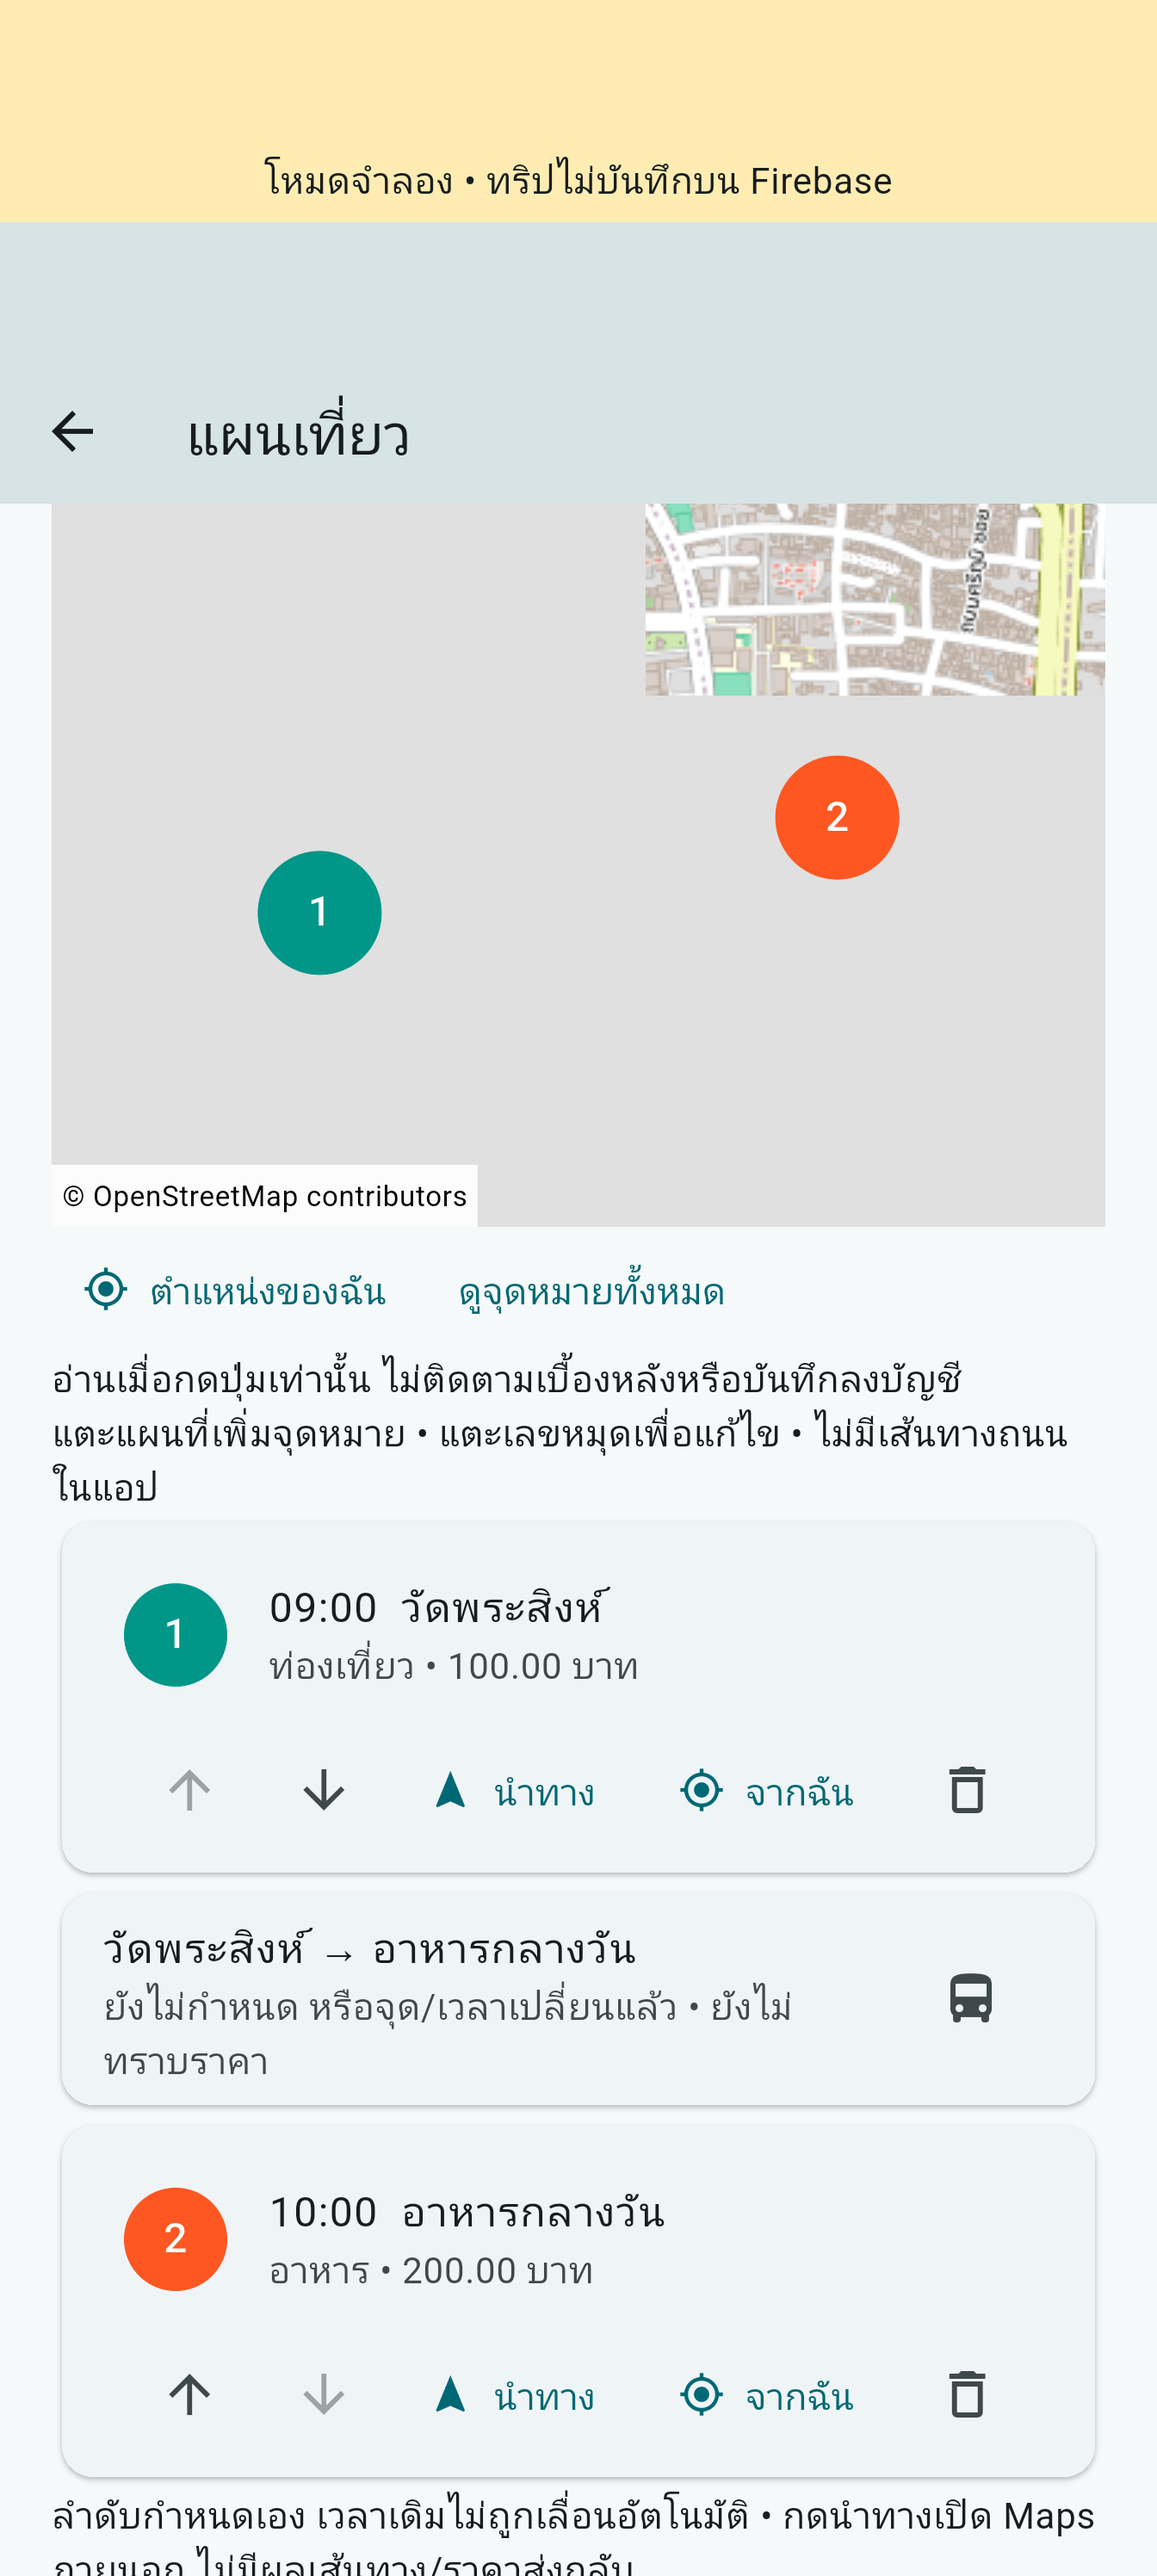
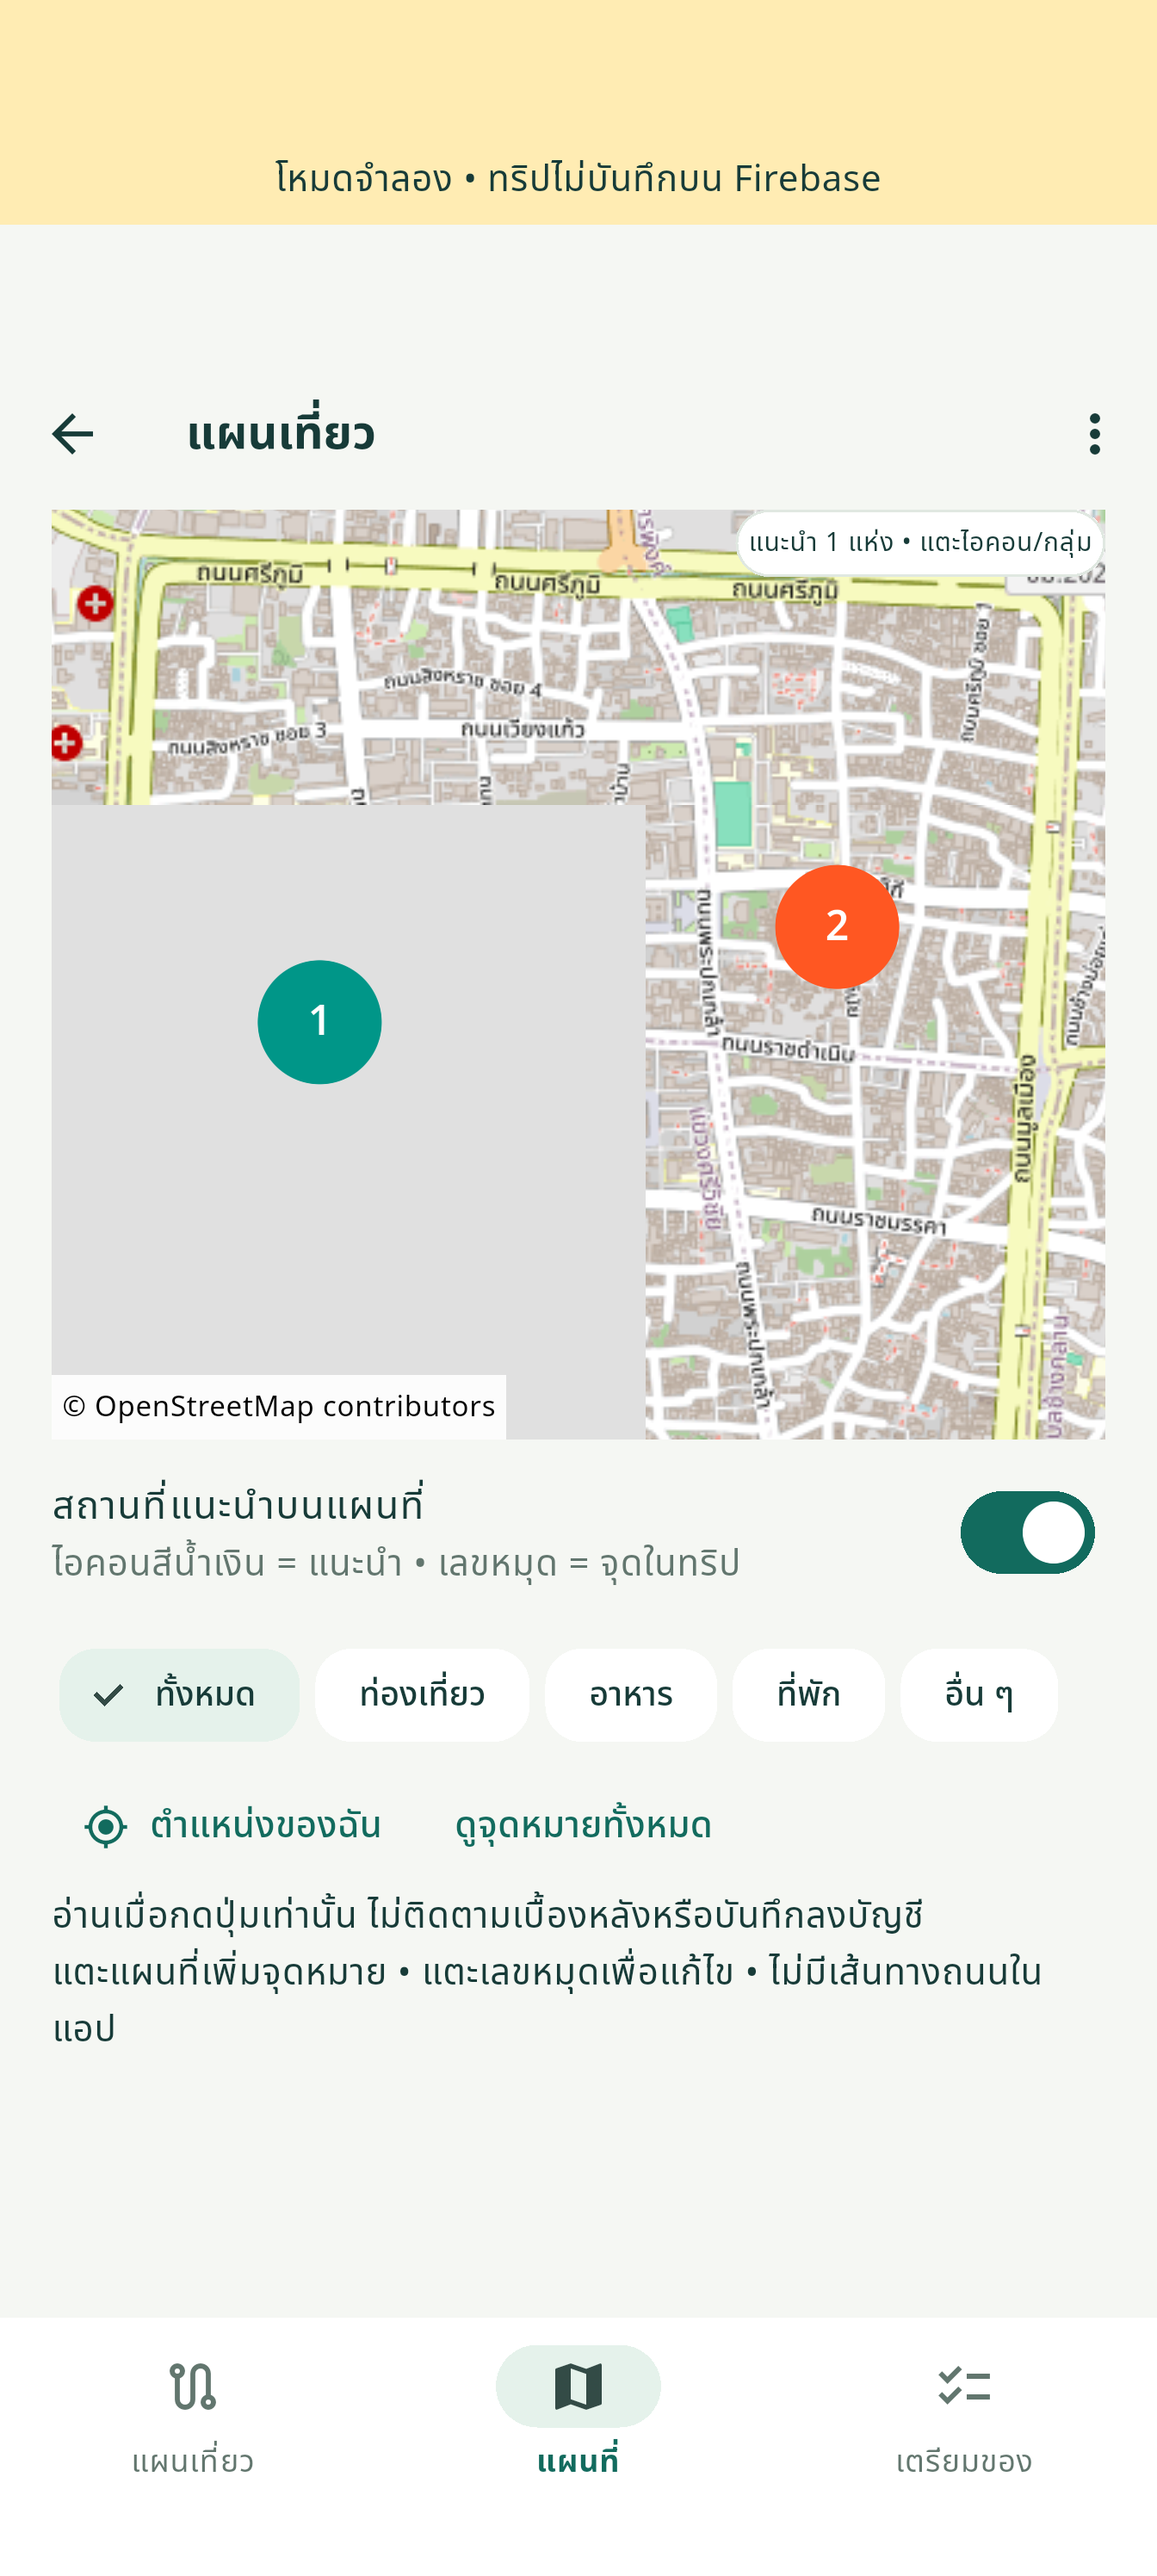
test(ui): verify refreshed layouts and Android trip workflows

diff --git a/test/ux_responsive_test.dart b/test/ux_responsive_test.dart
@@ -1,0 +1,100 @@
+import 'package:flutter/material.dart';
+import 'package:flutter_test/flutter_test.dart';
+import 'package:flutter_riverpod/flutter_riverpod.dart';
+import 'package:trip_pocket/app/app.dart';
+import 'package:trip_pocket/app/providers.dart';
+import 'package:trip_pocket/core/design_system.dart';
+import 'package:trip_pocket/features/places/curated_places.dart';
+import 'package:trip_pocket/features/places/place_catalog.dart';
+import 'package:trip_pocket/features/places/recommendations_sheet.dart';
+
+void main() {
+  testWidgets(
+    'small screen and enlarged Thai text keeps login validation and password toggle reachable',
+    (tester) async {
+      tester.view.physicalSize = const Size(320, 568);
+      tester.view.devicePixelRatio = 1;
+      tester.platformDispatcher.textScaleFactorTestValue = 1.5;
+      addTearDown(tester.view.resetPhysicalSize);
+      addTearDown(tester.view.resetDevicePixelRatio);
+      addTearDown(tester.platformDispatcher.clearTextScaleFactorTestValue);
+      await tester.pumpWidget(
+        ProviderScope(
+          overrides: [modeProvider.overrideWithValue('demo')],
+          child: const SessionApp(uid: null),
+        ),
+      );
+      await tester.pumpAndSettle();
+      await tester.scrollUntilVisible(find.byKey(const Key('password')), 140);
+      await tester.pumpAndSettle();
+      await tester.ensureVisible(find.byTooltip('แสดงรหัสผ่าน'));
+      await tester.pumpAndSettle();
+      await tester.tap(find.byTooltip('แสดงรหัสผ่าน'));
+      await tester.pumpAndSettle();
+      expect(
+        tester
+            .widget<TextField>(
+              find.descendant(
+                of: find.byKey(const Key('password')),
+                matching: find.byType(TextField),
+              ),
+            )
+            .obscureText,
+        isFalse,
+      );
+      await tester.ensureVisible(find.byKey(const Key('auth-submit')));
+      await tester.tap(find.byKey(const Key('auth-submit')));
+      await tester.pumpAndSettle();
+      expect(find.text('กรอกอีเมลให้ถูกต้อง'), findsOneWidget);
+      expect(tester.takeException(), isNull);
+    },
+  );
+
+  testWidgets(
+    'search results remain selectable with keyboard on a small screen',
+    (tester) async {
+      tester.view.physicalSize = const Size(320, 568);
+      tester.view.devicePixelRatio = 1;
+      addTearDown(tester.view.resetPhysicalSize);
+      addTearDown(tester.view.resetDevicePixelRatio);
+      await tester.pumpWidget(
+        ProviderScope(
+          overrides: [
+            placeCatalogProvider.overrideWith(
+              (ref) async => PlaceCatalog(chiangMaiPlaces),
+            ),
+          ],
+          child: MaterialApp(
+            theme: buildTripTheme(),
+            home: Builder(
+              builder: (context) => Scaffold(
+                body: TextButton(
+                  onPressed: () => showModalBottomSheet<void>(
+                    context: context,
+                    isScrollControlled: true,
+                    useSafeArea: true,
+                    builder: (_) =>
+                        const RecommendationsSheet(remaining: 10000),
+                  ),
+                  child: const Text('ค้นหา'),
+                ),
+              ),
+            ),
+          ),
+        ),
+      );
+      await tester.tap(find.text('ค้นหา'));
+      await tester.pumpAndSettle();
+      tester.view.viewInsets = const FakeViewPadding(bottom: 230);
+      addTearDown(tester.view.resetViewInsets);
+      await tester.enterText(find.byKey(const Key('place-search')), 'Jasmine');
+      await tester.pumpAndSettle();
+      final target = find.byKey(const Key('recommend-jasmine'));
+      await tester.ensureVisible(target);
+      await tester.pumpAndSettle();
+      expect(target.hitTestable(), findsOneWidget);
+      expect(find.byKey(const Key('place-map-view')), findsNothing);
+      expect(tester.takeException(), isNull);
+    },
+  );
+}

diff --git a/integration_test/nationwide_ui_test.dart b/integration_test/nationwide_ui_test.dart
@@ -51,6 +51,7 @@ void main() {
       );
       await tester.pumpAndSettle();
       await binding.convertFlutterSurfaceToImage();
+      await tester.pump();
       await binding.takeScreenshot('ux-login');
       runApp(
         UncontrolledProviderScope(
@@ -65,7 +66,7 @@ void main() {
       await binding.takeScreenshot('ux-plan');
       await tester.tap(find.byKey(const Key('tab-map')));
       await tester.pumpAndSettle();
-      await binding.convertFlutterSurfaceToImage();
+
       final semantics = tester.ensureSemantics();
 
       final wat = catalogue
@@ -85,6 +86,14 @@ void main() {
       await tester.pump(const Duration(milliseconds: 500));
       await tester.pumpAndSettle();
       expect(find.byType(PoiMapLayer), findsOneWidget);
+      // The layer debounces viewport updates independently of Flutter animations.
+      for (
+        var n = 0;
+        n < 15 && find.bySemanticsLabel('แนะนำ ${wat.name}').evaluate().isEmpty;
+        n++
+      ) {
+        await tester.pump(const Duration(milliseconds: 200));
+      }
       expect(find.bySemanticsLabel('แนะนำ ${wat.name}'), findsOneWidget);
       await tester.pump(const Duration(seconds: 1));
       await binding.takeScreenshot('ux-nationwide-map');

diff --git a/docs/UI_UX_REFRESH.md b/docs/UI_UX_REFRESH.md
@@ -1,0 +1,34 @@
+# UI/UX refresh — 26 ตุลาคม 2569
+
+## สิ่งที่เปลี่ยน
+
+- Design system ร่วมกัน: เขียวเข้ม พื้นสว่าง การ์ดขอบมน ปุ่มและช่องกรอกขนาดสม่ำเสมอ ใช้ Noto Sans Thai ในแอป ไม่ต้องโหลดฟอนต์จากเครือข่าย
+- หน้าเข้าสู่ระบบมีปุ่มแสดง/ซ่อนรหัสผ่าน ย่อหัวต้อนรับบนจอเตี้ย/เปิดคีย์บอร์ด
+- รายการทริปแสดงวันภาษาไทยและการ์ดที่อ่านง่ายขึ้น
+- รายละเอียดทริปแยกแถบล่าง **แผนเที่ยว / แผนที่ / เตรียมของ** สร้างแต่ละหน้าเมื่อเปิดครั้งแรกและคงหน้าที่เคยเปิดเพื่อรักษา draft/ตำแหน่งเลื่อน
+- การ์ดงบเน้นยอดคงเหลือ แยกราคาที่ทราบกับรายการไม่ทราบราคา ไม่มีการแก้สูตรคำนวณ
+- การ์ดจุดหมายมีปุ่มดินสอแก้ไข ปุ่มเรียงขึ้น/ลงและลบยังอยู่บนการ์ด แก้/ลบทริปจากเมนูมุมบน
+- ค้นสถานที่แสดงรายการทันที สลับแผนที่ด้วยปุ่มมุมมอง เปิดตัวกรองเพื่อเลือกจังหวัด/ประเภท และซ่อนส่วนรองเมื่อเปิดคีย์บอร์ด
+- เช็กลิสต์แสดงความคืบหน้า เก็บในเครื่องแยก uid/tripId เหมือนเดิม
+
+## การบันทึกจริง
+
+APK ปกติสร้างจาก lib/main.dart โดย APP_MODE ค่าเริ่มต้นเป็น live: Firebase Authentication และ Cloud Firestore จริง ส่วน integration UI ใช้ demo repository และมีแถบสีเหลืองเตือนชัดเจนว่าไม่บันทึก Firebase
+
+ไม่มีการเปลี่ยน schema/Rules/backend ไม่มีการเปิด billing หรือเพิ่มบริการเสียเงิน การเลือกสถานที่ยังต้องยืนยันก่อนบันทึก ราคาไม่ทราบไม่ถือเป็นศูนย์ และการลบยังใช้ขั้นตอนเดิมที่ทำต่อได้
+
+## ตรวจซ้ำ
+
+```powershell
+flutter analyze --no-pub
+flutter test --no-pub
+flutter drive --driver=test_driver/integration_test.dart --target=integration_test/nationwide_ui_test.dart -d emulator-5554 --no-pub
+# คืน APK ปกติหลัง integration test เสมอ
+flutter build apk --debug --no-pub
+```
+
+ผลและข้อจำกัดล่าสุดอยู่ใน IMPLEMENTATION_STATUS.md แยกข้อมูลจำลอง, แค็ตตาล็อกจริง, Android Emulator และ Firebase live อย่างชัดเจน
+
+## ฟอนต์
+
+Noto Sans Thai: https://github.com/google/fonts/tree/main/ofl/notosansthai — SIL Open Font License 1.1 แจกใบอนุญาตที่ assets/fonts/OFL.txt พร้อมฟอนต์

diff --git a/docs/IMPLEMENTATION_STATUS.md b/docs/IMPLEMENTATION_STATUS.md
@@ -278,3 +278,13 @@ V2.1 ตามขอบเขตที่ผู้ใช้เลือกเส
 - ค้นหาสถานที่เปิดเป็นรายการทันที สลับแผนที่และเปิดตัวกรองได้ ลดข้อมูลที่ต้องเลื่อนผ่านก่อนเจอผลค้น
 - flutter analyze ไม่มี issues; Flutter tests 33/33 ผ่าน รวม regression login/CRUD/account isolation และเพิ่มตรวจ packing draft เมื่อสลับแท็บ
 - ปรับ integration scripts ให้ใช้แท็บใหม่แล้ว แต่ยังไม่อ้าง Android UI ผ่านจนรันจริง
+
+### UI/UX milestone 2 — verification
+
+- flutter analyze ไม่มี issues; Flutter tests 35/35 ผ่าน (เพิ่มจอ 320×568 ตัวอักษร 1.5 เท่า, ปุ่มแสดงรหัสผ่าน และค้นหาขณะ keyboard inset 230)
+- Android Emulator API 37: nationwide_ui_test ผ่านด้วย production loader/catalogue 66,975 แห่ง/77 จังหวัด เลือกหมุดกรุงเทพ ค้นป่าตอง เพิ่มเป็นจุดที่สอง แก้จุดที่บันทึกแล้วโดยไม่สร้างซ้ำ และเช็กลิสต์หลังสลับแท็บ
+- Android Emulator: v21_ui_test ผ่าน: native map tiles แสดงจริง, ค่าเดินทาง 50 บาทรวมไม่ซ้ำ, สลับลำดับแล้วราคา segment เดิมไม่ถูกนับ, เพิ่มจากค้นหา/แตะแผนที่ และ preview แชร์
+- UI tests ใช้ demo/fake cloud (แถบเหลือง) แค็ตตาล็อก production จริง/fixture เชียงใหม่ใน regression ตามชื่อ test; ไม่ใช่ผล Firebase live ใหม่
+- ภาพตรวจหน้าตาจริง: ux-login.png, ux-trip-list.png, ux-plan.png, ux-nationwide-map.png, ux-nationwide-search.png, ux-packing.png ใน docs/evidence; ภาพ map ทั่วไทยยังเป็นช่วง tiles โหลดไม่ครบ ส่วน v21-daily-map.png มี tiles แสดงจริง
+- ไม่มี schema/Rules เปลี่ยน จึงไม่รัน Rules/live SDK ใหม่ งานค้างด้านอุปกรณ์: มือถือจริง/iOS ยังไม่ได้ตรวจ
+- คู่มือ UI_UX_REFRESH.md และ frontend contract อัปเดตตรงกับโค้ด กำลังสร้าง APK ปกติจาก main.dart (default APP_MODE=live) กลับหลัง integration tests

diff --git a/docs/README.md b/docs/README.md
@@ -4,6 +4,8 @@
 
 ## เริ่มอ่าน
 
+- [UI/UX รุ่นใหม่](UI_UX_REFRESH.md) — design system, แท็บแผน/แผนที่/เตรียมของ และการทดสอบ
+
 - [ค้นหาทั่วไทยและหมุดแนะนำ](FEATURE_NATIONWIDE_PLACES.md) — ฐาน OSM 66,975 แห่ง/77 จังหวัด แทนชุดเชียงใหม่เดิม พร้อมผลตรวจและสิทธิ์ข้อมูล
 
 - [คู่มือตรวจ P7](P7_TEST_GUIDE.md) — Emulator, cold restart และ native share
